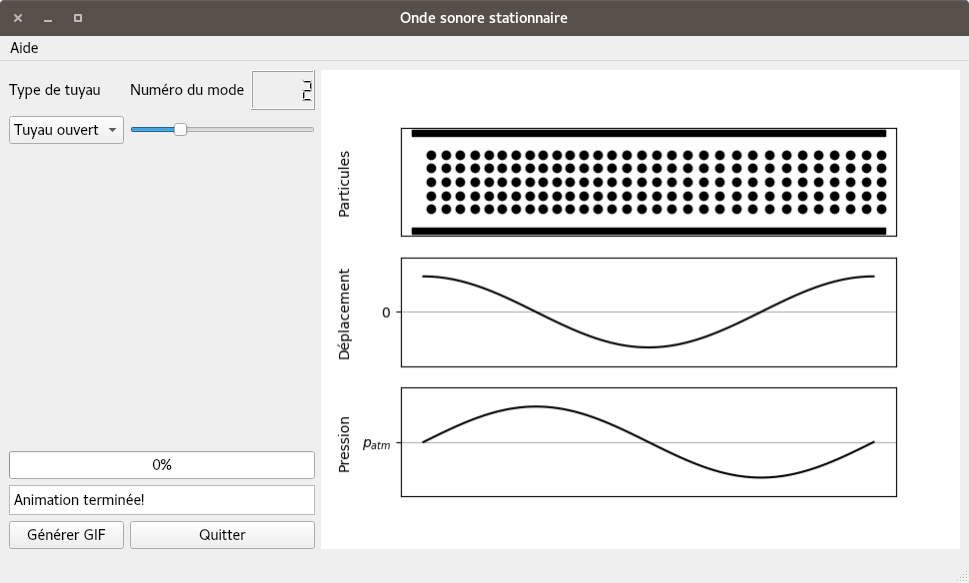
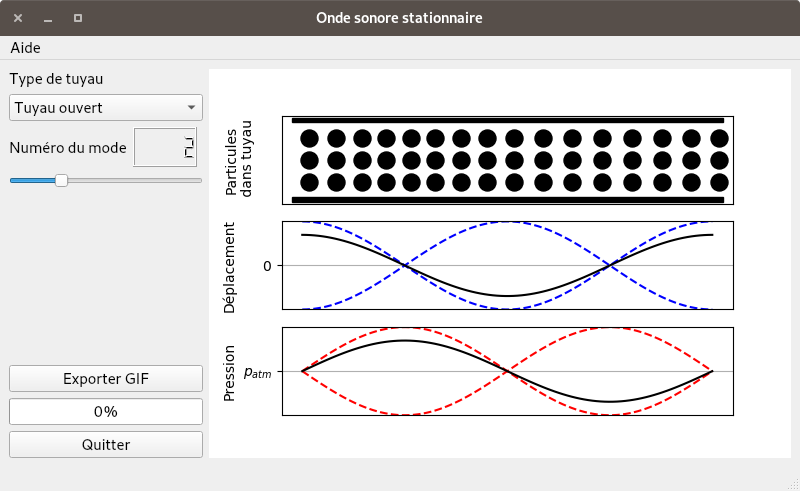
Amélioré interface et changé capture d'écran / Improved UI and changed screenshot

Changed region(s): [[0.0, 0.0, 1.0, 0.947], [0.3125, 0.1222, 0.3438, 0.1833]]

diff --git a/onde_stationnaire_main_window.py b/onde_stationnaire_main_window.py
@@ -183,6 +183,9 @@ class Ui_MainWindow(object):
 #        self.pushButton_3.setDisabled(boolean)
         self.comboBox.setDisabled(boolean)
         self.menu_aide.setDisabled(boolean)
+        self.label.setDisabled(boolean)
+        self.label_2.setDisabled(boolean)
+        self.lcdNumber.setDisabled(boolean)
 
     def stopAnim(self):
         self.oscillation.event_source.stop()
